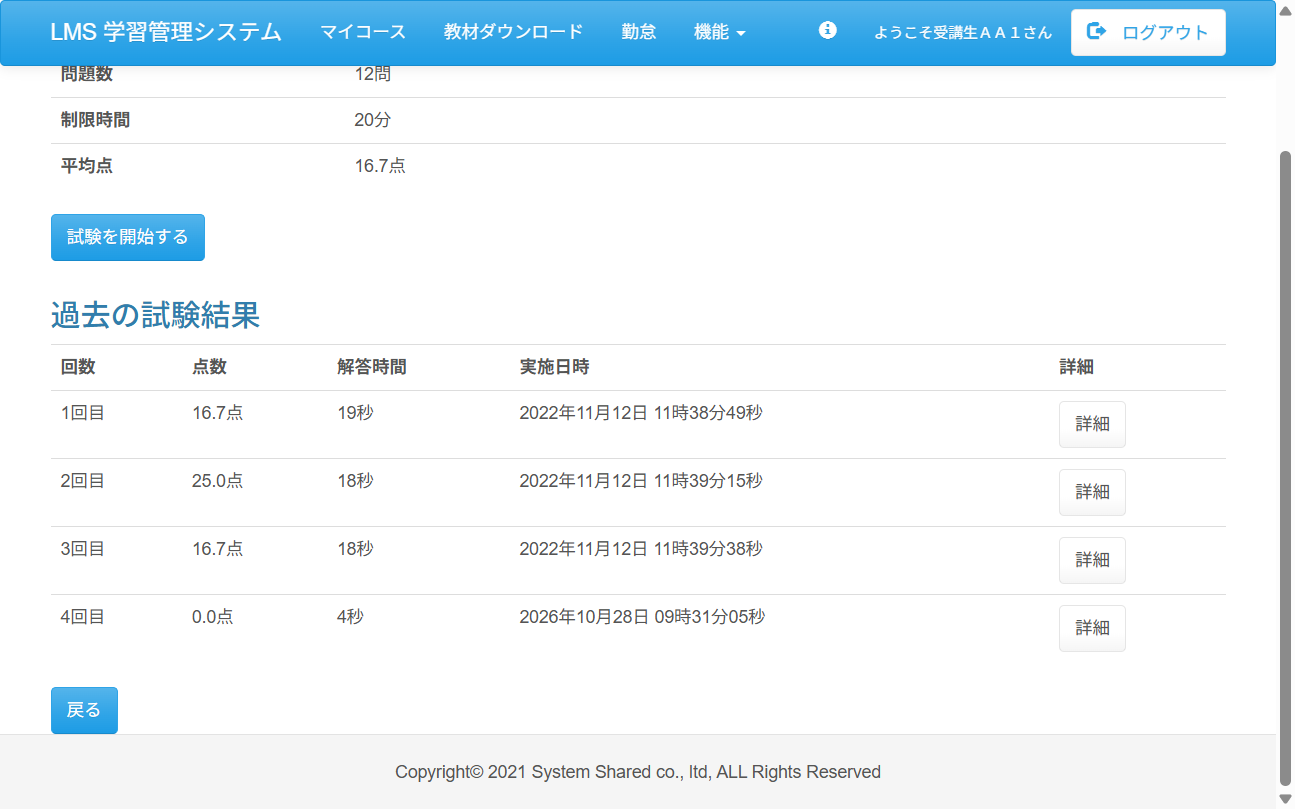
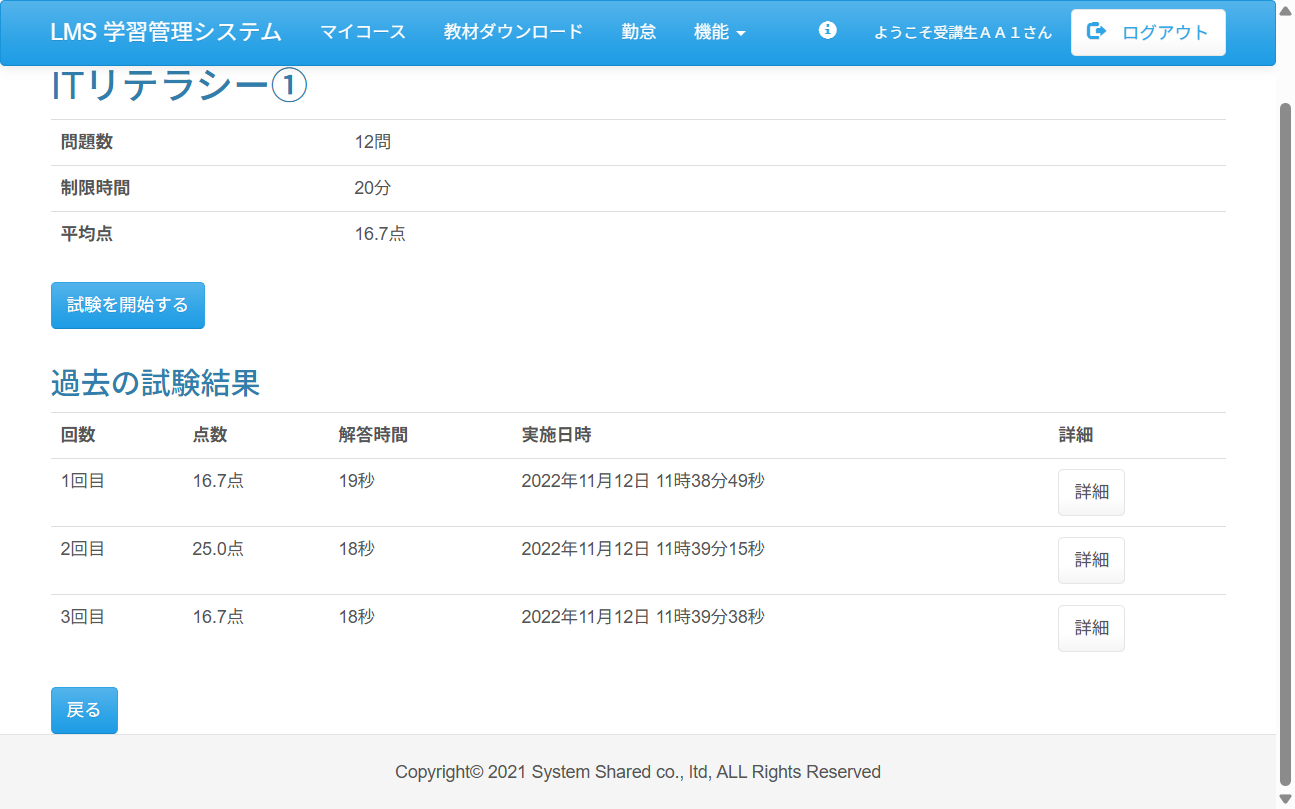
add:Nakahira Case13 テストコードtest08実装中にバグが発生したため、これ以降の実装は保留とする

diff --git a/test_code_creation_name/src/test/java/jp/co/sss/lms/ct/f05_exam/Case13.java b/test_code_creation_name/src/test/java/jp/co/sss/lms/ct/f05_exam/Case13.java
@@ -3,7 +3,6 @@ package jp.co.sss.lms.ct.f05_exam;
 import static jp.co.sss.lms.ct.util.WebDriverUtils.*;
 import static org.junit.jupiter.api.Assertions.*;
 
-import java.text.SimpleDateFormat;
 import java.util.Date;
 
 import org.junit.jupiter.api.AfterAll;
@@ -173,22 +172,27 @@ public class Case13 {
 		returnBtn.click();
 
 		pageLoadTimeout(10);
+		getEvidence(new Object() {
+		});
+		assertEquals("エラー画面", webDriver.getTitle());
+
+		/**
 		WebElement target = webDriver
-				.findElement(By.cssSelector("#main > div > table:nth-of-type(2) > tbody > tr:last-of-type"));
+				.findElement(By.cssSelector("#main > div table:nth-of-type(2) tr:last-child"));
 		WebElement targetScore = target.findElement(By.cssSelector("td:nth-of-type(2)"));
 		WebElement targetDate = target.findElement(By.cssSelector("td:nth-of-type(4)"));
 		SimpleDateFormat df = new SimpleDateFormat("yyyy年MM月dd日");
 		String nowDate = df.format(new Date());
-
+		
 		assertEquals("試験【ITリテラシー①】 | LMS", webDriver.getTitle());
 		assertEquals("0.0点", targetScore.getText());
 		assertEquals(nowDate, targetDate.getText().substring(0, 11));
-
+		
 		getEvidence(new Object() {
 		}, "1");
 		scrollBy("400");
 		getEvidence(new Object() {
-		}, "2");
+		}, "2");*/
 	}
 
 }
